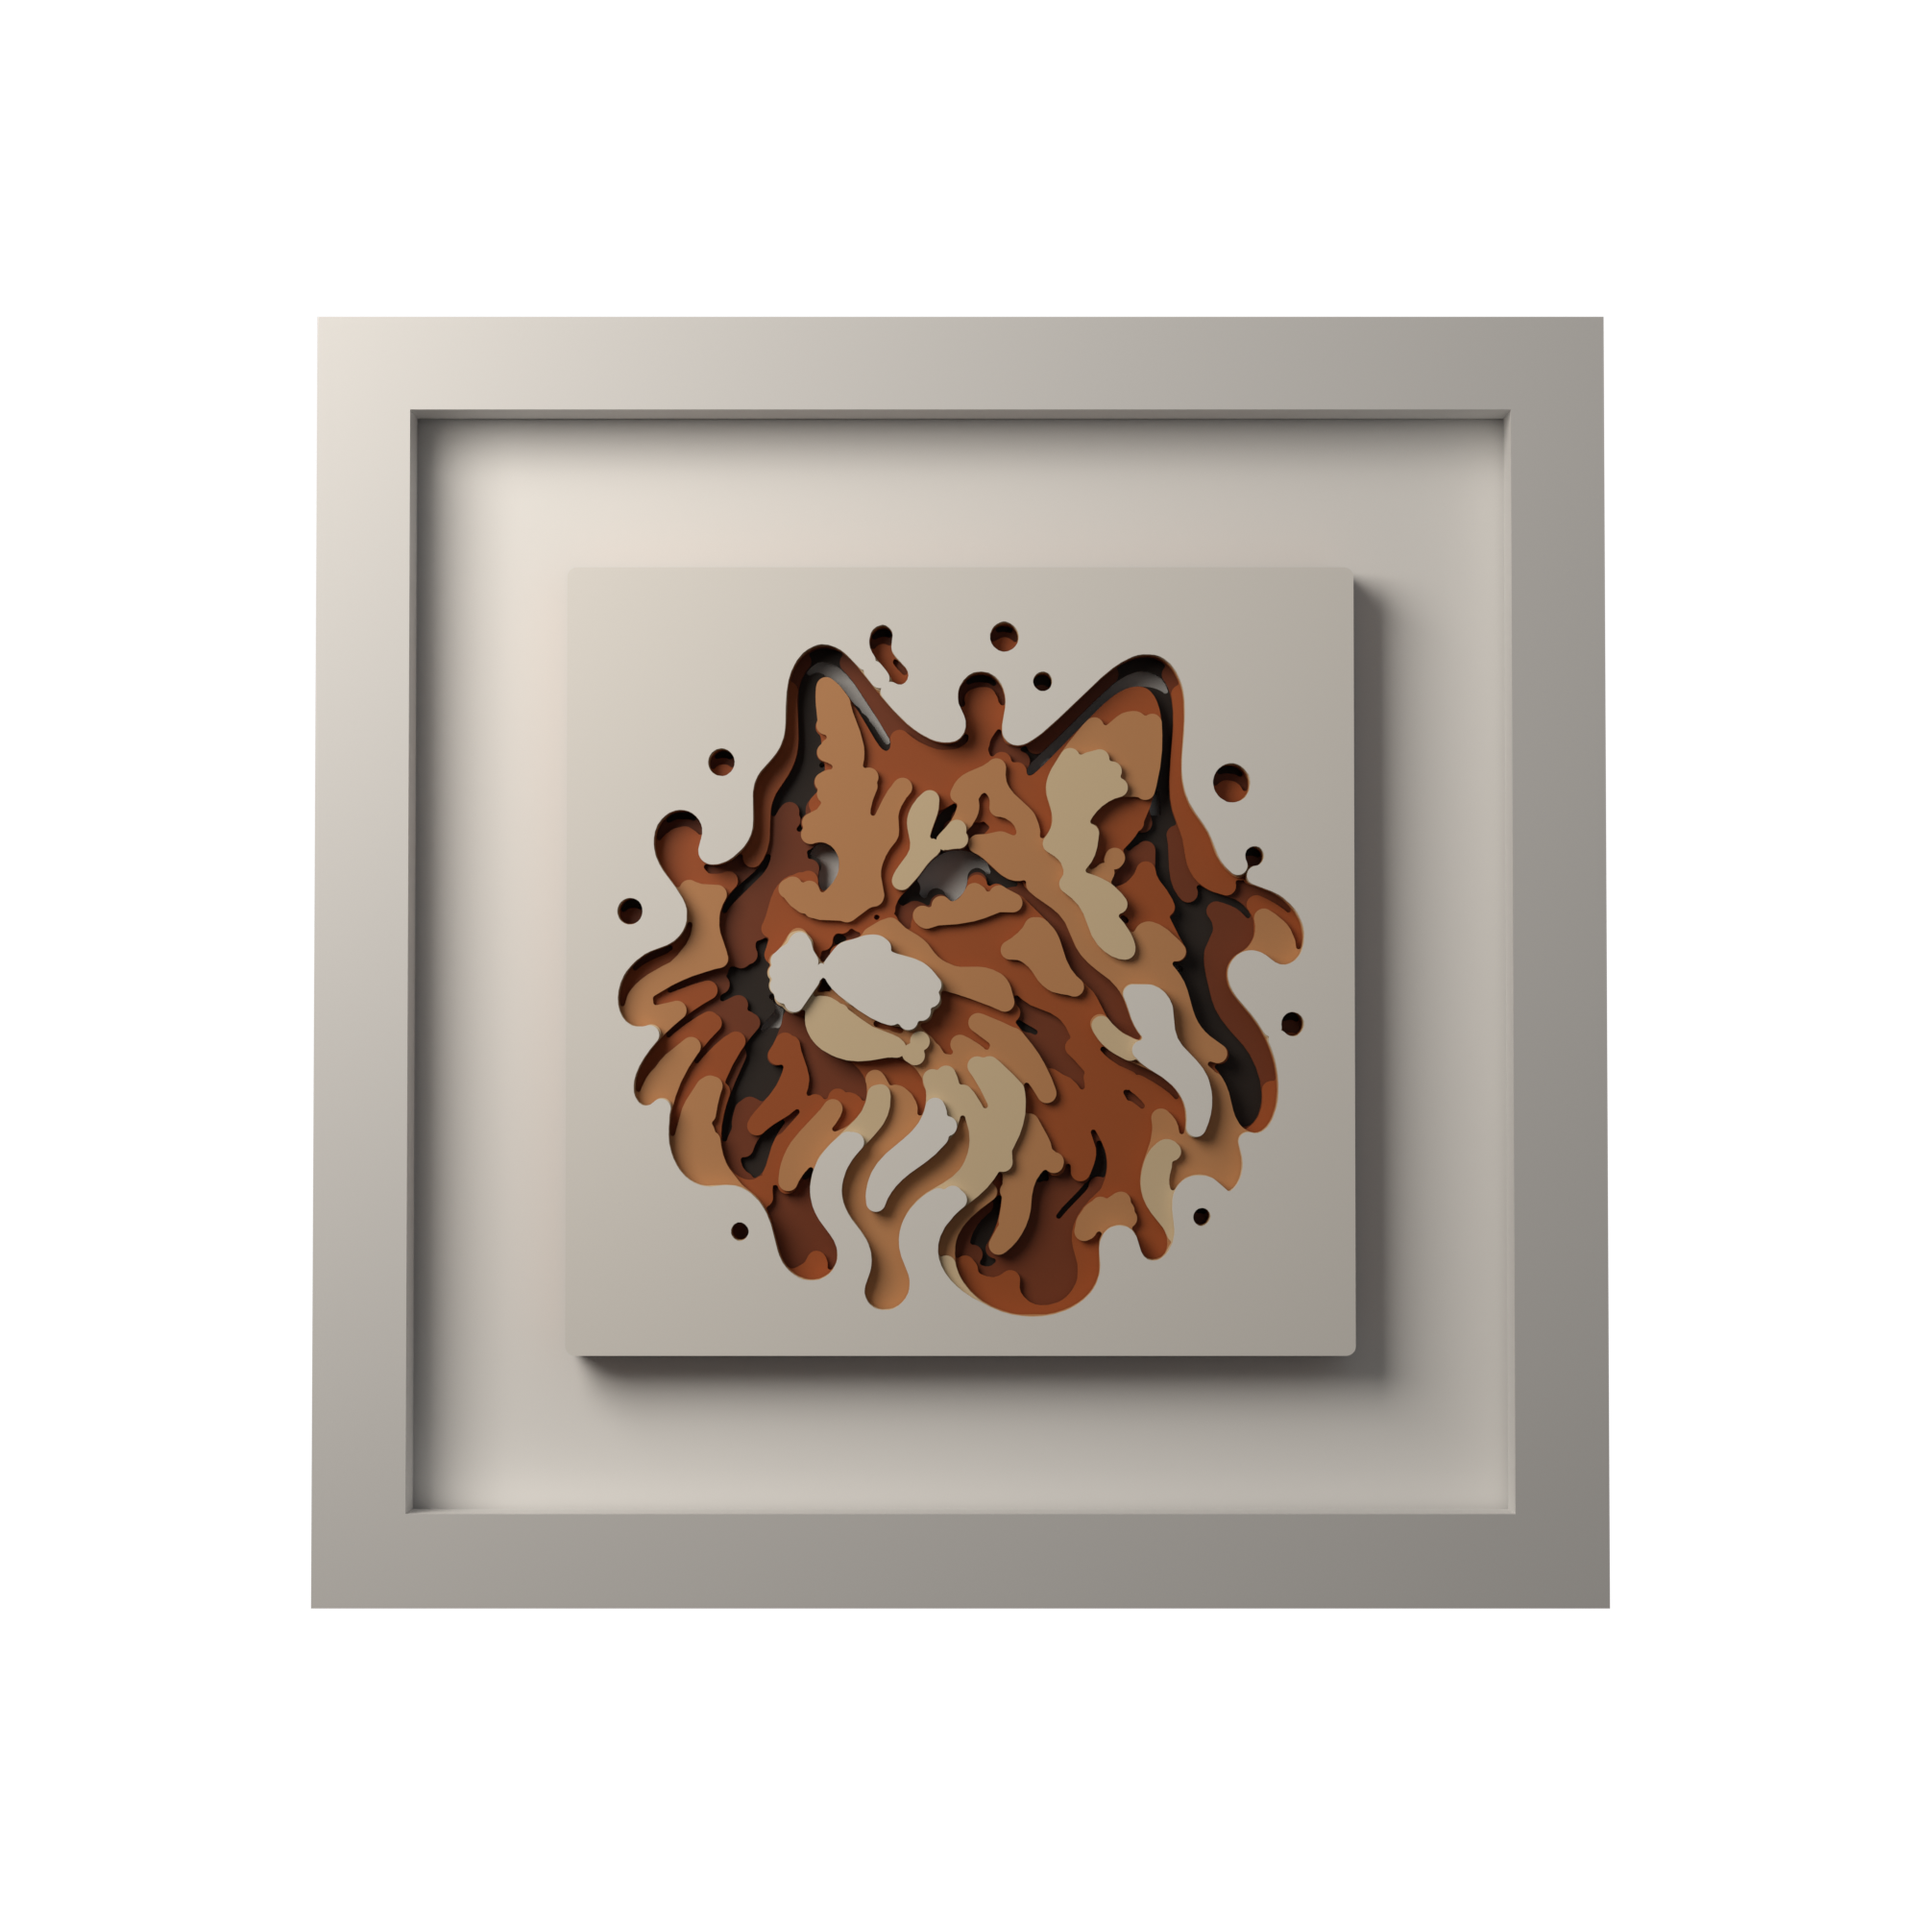
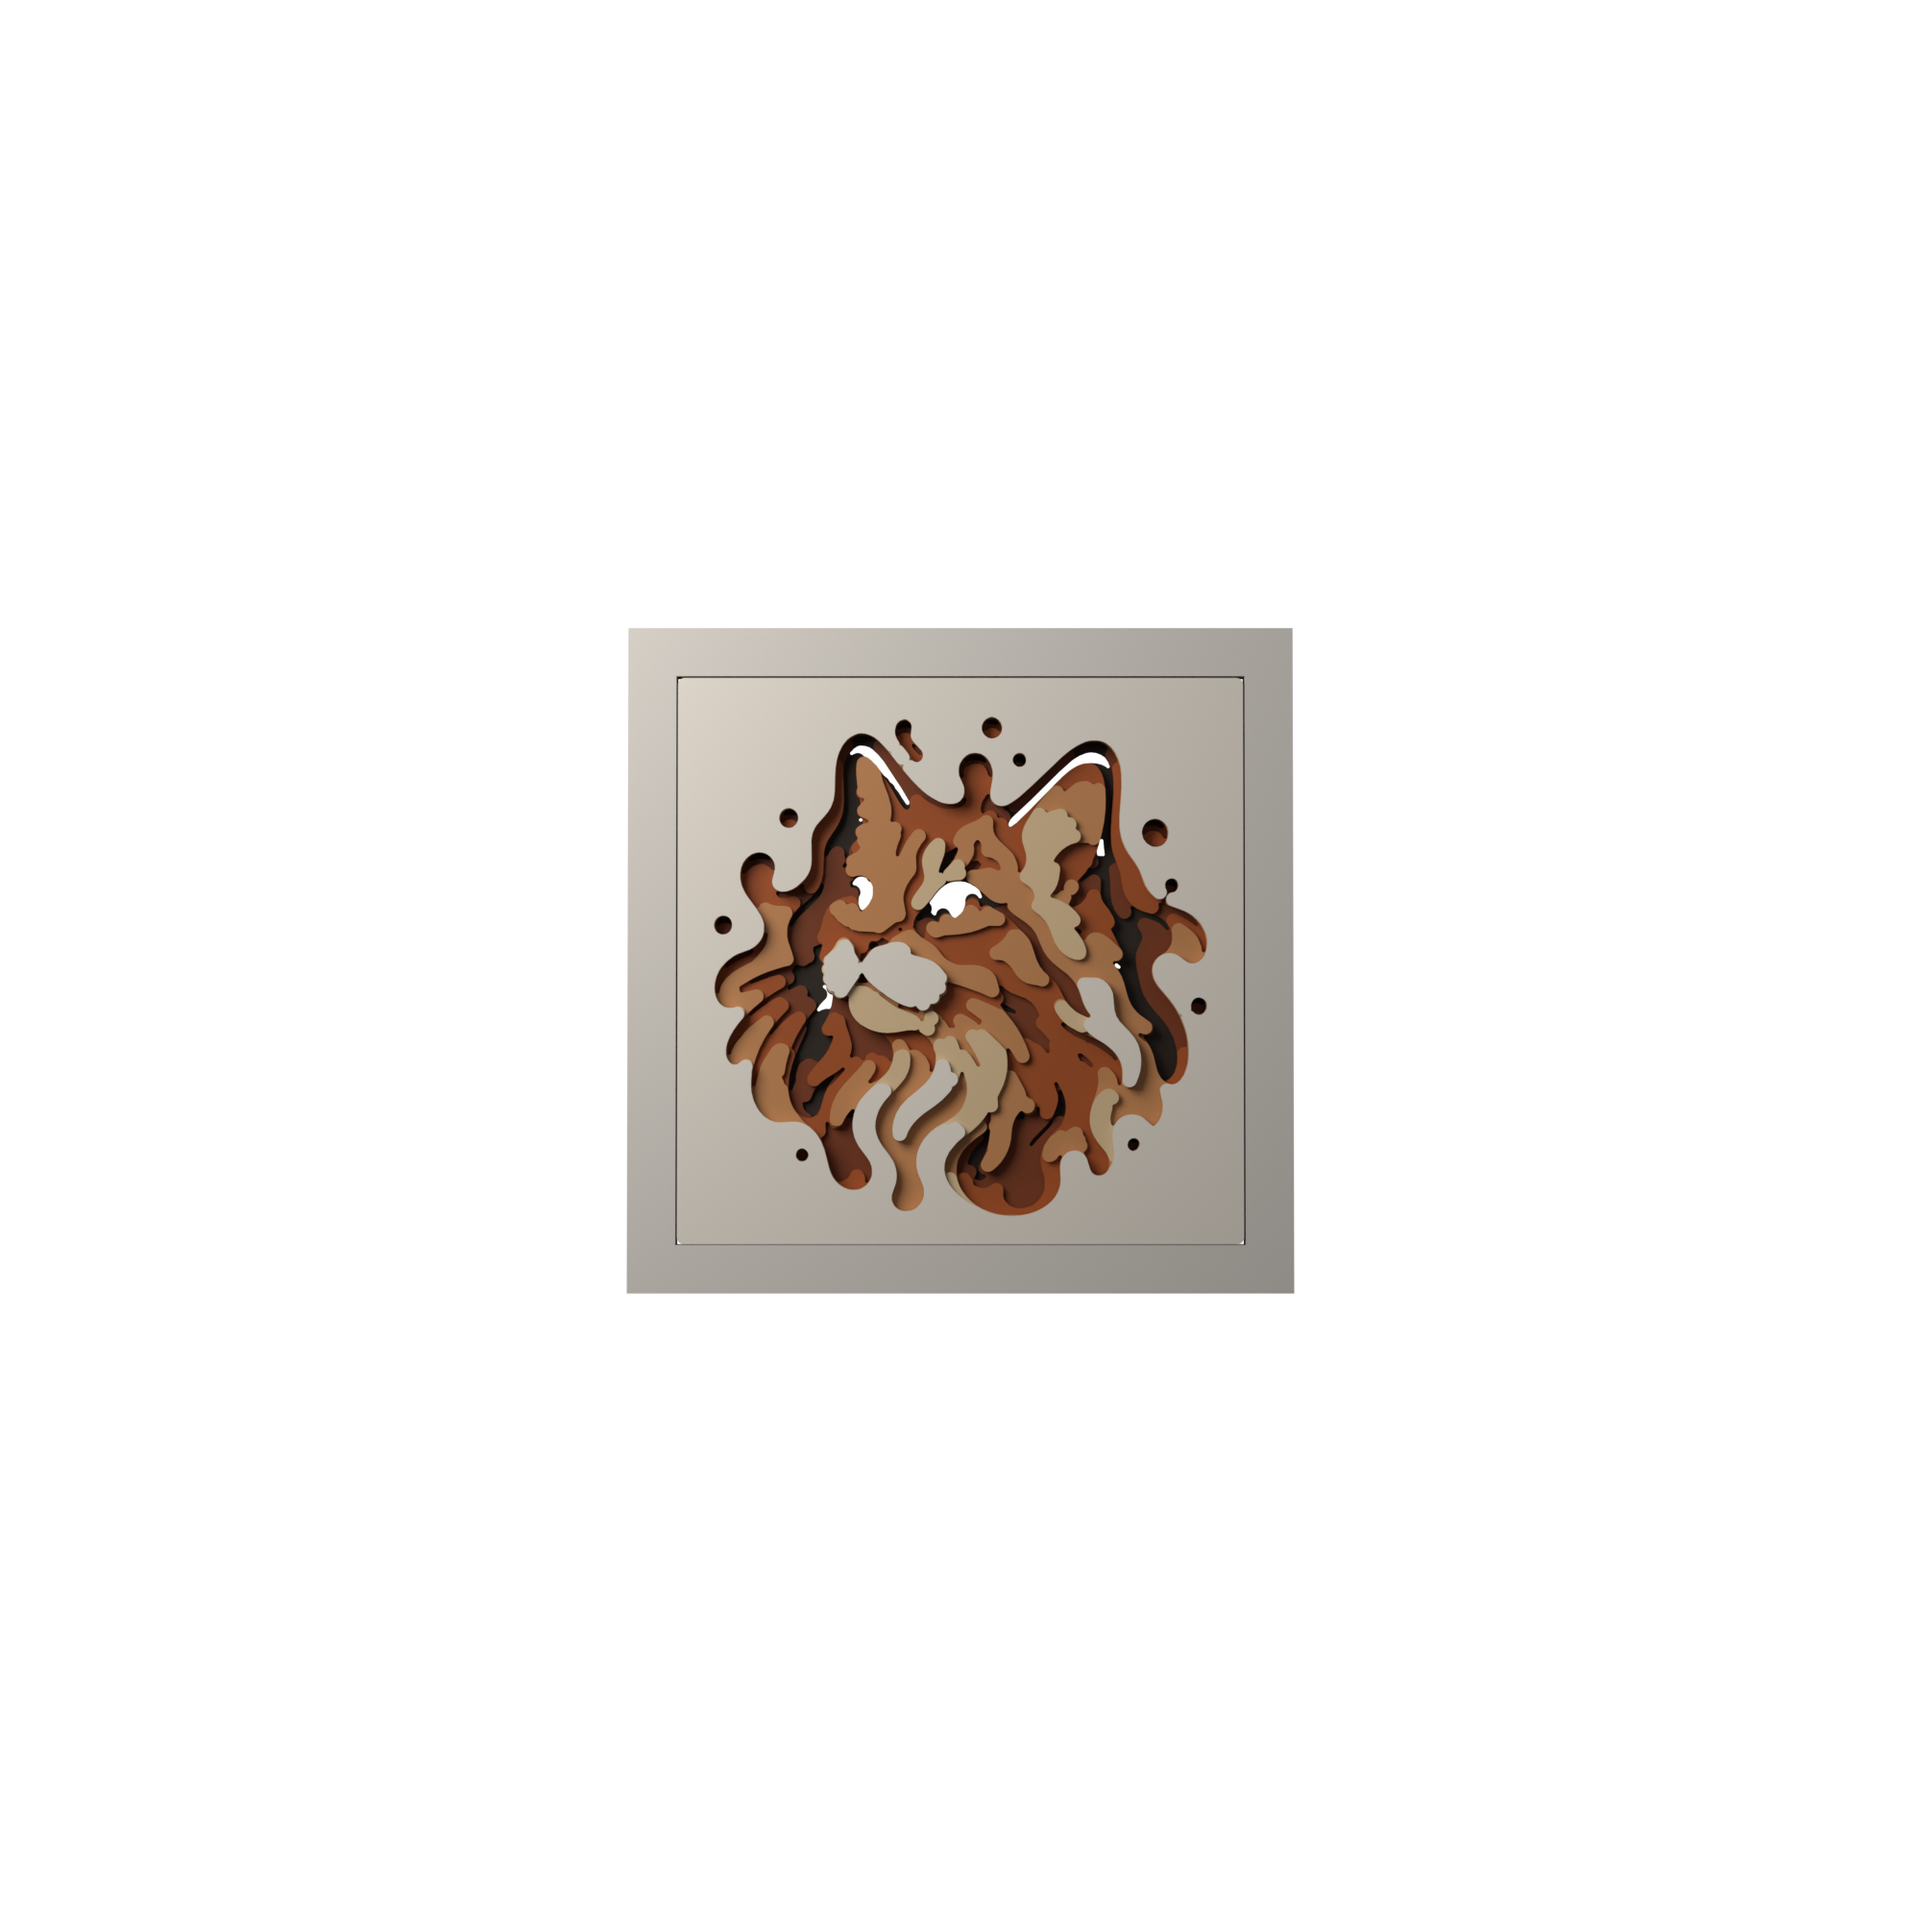
A keret a KIERTEKELT geometriabol epul (world_bbox)
o.bound_box a kiertekeletlen kalitka: extrude/bevel eseten lemarad, es a
frame ebbol epult - a nyilas 1,8x tul szelesre nyilt, a panel a 72%-at
toltotte ki. A depsgraph evaluated_get() adja a valos hatarokat.
Sullyesztett modban a hatterlap is kimarad (a panel maga a lap).

diff --git a/product/render_blender.py b/product/render_blender.py
@@ -278,8 +278,22 @@ bpy.context.view_layer.objects.active = objs[0]
 bpy.ops.object.origin_set(type="ORIGIN_GEOMETRY", center="BOUNDS")
 # centre on the real bounding box, not the mean of object origins - the mean
 # drifts toward whichever layer has more pieces and left the panel off-centre
-import mathutils as _mu
-_p = [o.matrix_world @ _mu.Vector(c) for o in objs for c in o.bound_box]
+import mathutils
+
+
+def world_bbox(objects):
+    """True world-space bounds. o.bound_box is the UNEVALUATED cage: for curves
+    with extrude/bevel it lags behind, and the frame built from it opened 1.8x
+    too wide. Only the evaluated depsgraph copy is correct."""
+    dg = bpy.context.evaluated_depsgraph_get()
+    pts = []
+    for o in objects:
+        oe = o.evaluated_get(dg)
+        pts += [oe.matrix_world @ mathutils.Vector(c) for c in oe.bound_box]
+    return pts
+
+
+_p = world_bbox(objs)
 cx = (min(q.x for q in _p) + max(q.x for q in _p)) / 2
 cy = (min(q.y for q in _p) + max(q.y for q in _p)) / 2
 for o in objs:
@@ -287,8 +301,7 @@ for o in objs:
     o.location.y -= cy
 
 # ---- fit the camera to the actual bounding box ---------------------------
-import mathutils
-pts = [o.matrix_world @ mathutils.Vector(c) for o in objs for c in o.bound_box]
+pts = world_bbox(objs)
 minv = mathutils.Vector((min(p.x for p in pts), min(p.y for p in pts), min(p.z for p in pts)))
 maxv = mathutils.Vector((max(p.x for p in pts), max(p.y for p in pts), max(p.z for p in pts)))
 SIZE = max(maxv.x - minv.x, maxv.y - minv.y)
@@ -405,8 +418,10 @@ if DOTS and objs:
     print(f"[render] {len(_sc)} potty elhelyezve")
 
 FRAME_OBJS = []
-if FRAME and not WHITE_TOP:
-    # White backing sheet - only needed when there is no white top sheet; in the
+if FRAME and not WHITE_TOP and not RECESSED:
+    # White backing sheet - not needed when the panel IS the sheet. Leaving it
+    # in put a visible mat ring around the recessed panel, which is exactly the
+    # "floating tile" the reviewer marked down. in the
     # real product the cut layers are mounted on a plain sheet inside the frame.
     # tie the backing to THICK: a fixed -0.4 mm sat INSIDE the layer-1 extrusion
     # once paper thickness went to 2 mm, and the plane won the z-fight over the
@@ -424,11 +439,18 @@ if FRAME:
     # any angle off dead-on. It was also nested in the "no white top" branch, so
     # with --white-top no frame was built at all and the white sheet's own edge
     # was standing in for it.
-    fw = SIZE * 0.085
+    # Measure the artwork HERE. SIZE was read from bound_box before the
+    # depsgraph had re-evaluated the curves, and came out 39% too large - the
+    # frame opening was then built to that stale figure and the panel filled
+    # only 72% of it.
+    _ab = world_bbox(objs)
+    ART = max(max(q.x for q in _ab) - min(q.x for q in _ab),
+              max(q.y for q in _ab) - min(q.y for q in _ab))
+    fw = ART * 0.085
     # a recessed sheet sits right up against the rabbet; a deep empty well in
     # front of it reads as a floating tile
-    fd = SIZE * (0.055 if RECESSED else 0.17)
-    inner = SIZE / 2 * (1.005 if RECESSED else 1.06)
+    fd = ART * (0.055 if RECESSED else 0.17)
+    inner = ART / 2 * (1.005 if RECESSED else 1.06)
     outer = inner + fw
     bpy.ops.mesh.primitive_cube_add(size=1, location=(0, 0, fd / 2 - 0.0006))
     shell = bpy.context.object
@@ -448,6 +470,8 @@ if FRAME:
     fc = (0.20, 0.11, 0.055, 1) if WOODFRAME else (0.94, 0.933, 0.920, 1)
     shell.data.materials.append(wood("frame", fc, 0.55 if WOODFRAME else 0.42,
                                      grain=WOODFRAME))
+    print(f"[render] mu={ART:.4f} keret-nyilas={inner*2:.4f} "
+          f"kitoltes={ART/(inner*2)*100:.0f}%")
     FRAME_OBJS.append(shell)
 
 if VIEW == "plate":
@@ -541,10 +565,9 @@ if VIEW == "lifestyle":
 # multiplier cropped the piece.
 LENS, MARGIN = 85.0, 1.22
 if FRAME:
-    # the frame is built after the bounding box, so the camera must be told the
-    # object is bigger - otherwise it fits the art and crops the frame away.
-    # 1.34 filled 88% of the canvas; the reference frame fills ~73%.
-    MARGIN *= 1.45
+    # the frame extends past the art, so the camera must be told the object is
+    # bigger - otherwise it fits the art and crops the frame away
+    MARGIN *= 1.45 * (SIZE / ART if ART else 1.0)
 if VIEW == "plate":
     D = SIZE * MARGIN * LENS / 36.0 * 1.0
     bpy.ops.object.camera_add(location=(0, -D, 0), rotation=(math.radians(90), 0, 0))
